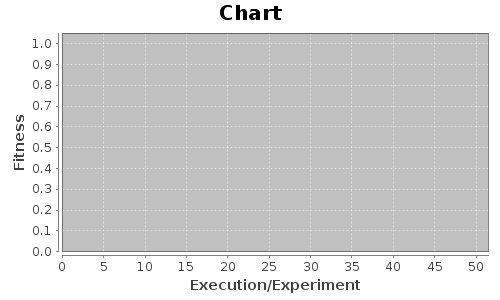
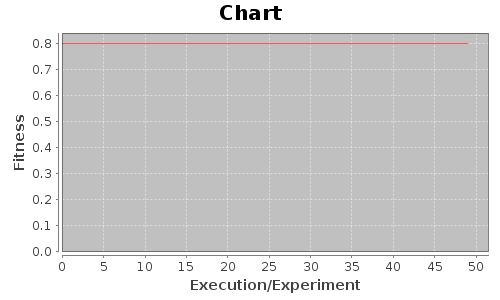
Debug OracleReport

diff --git a/src/sample/Oracule/OracleTest.java b/src/sample/Oracule/OracleTest.java
@@ -15,7 +15,6 @@
  */
 package sample.Oracule;
 
-import junit.framework.TestResult;
 import junit.framework.TestSuite;
 import org.uncommons.watchmaker.framework.termination.GenerationCount;
 import sbstframe.problem.JunitReport;
@@ -55,6 +54,7 @@ public class OracleTest {
 
         TestSuite[] Oracule = new TestSuite[1];
         Oracule[0] = new TestSuite(sample.junit.mutantes.original.MoneyTest.class);
+        
         defaultReport = new OracleReport(new JunitReport(Oracule,0,0), new JunitReport(testCasesOnMutants, 0, 0));
         exp = new Experiment(1, 60);
         

diff --git a/src/sbstframe/problem/OracleReport.java b/src/sbstframe/problem/OracleReport.java
@@ -98,7 +98,7 @@ public class OracleReport implements ProblemInterface {
      */
     @Override
     public int getWorthlessReqTotal() {
-        return mutants.getRequirementTotal();
+        return mutants.getWorthlessReqTotal();
     }
 
     /**
